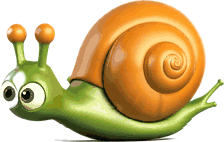
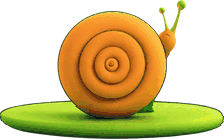
Three things a player pointed at: the ramp, the halos, the mascot
**The ramp was drawn in profile, i.e. wrong by ninety degrees.** A wedge whose
slope rises left to right is a ramp seen from the side, and the player is never
to the side — they are directly behind it, running at it. It is drawn receding
now: near edge wide and on the road, far edge narrower and raised, a darker lip
capping the far end, rails down both sides for the eye to read the recession
off. Perspective inside a billboard has to be painted; the projection only
scales the whole quad.

The first recoloured version read as a hole in the road. `blocking`'s greys are
what an upright mass is read against the SKY in; a ramp is read against the
ROAD, which is pale warm flagstone. It is `low`'s sandstone now, with the ink
ring cut 0.02 -> 0.007 and the rails halved — a billboard this flat has very
little interior left after a border.

**The white halo round every pickup was the rim light**, which replaced the
backing disc in C-A. Both were argued for correctly and both were reported the
first time they were seen on a real frame: the disc was a dark plate under every
icon, the rim is a white blob round every icon. Removed. What carries the
separation is what the object already has — its own ink contour, its saturation
(69% against the obstacles' 13%), and the ellipse shadow under it. GLYPH_FIT to
0.98, since there is no ring to leave room for.

**The mascot was a profile and should be a back.** This file used to argue the
[…]

diff --git a/src/run/RampSprites.ts b/src/run/RampSprites.ts
@@ -26,16 +26,29 @@ const CANVAS = 256
 const CHEVRON = 0xf0b024
 
 /**
- * A wedge, drawn as a billboard like everything else standing on the road.
+ * The ramp, seen from behind — which is the only vantage this game has.
  *
- * **It reads by its slope, which is the one thing on the road that is not vertical.** Obstacles are
- * upright masses and pickups are floating icons; a shape whose top edge climbs from the ground to a
- * lip is the only thing in the frame that says "this goes up", and it has to say that from far
- * enough away for the player to line up on it.
+ * **⚠ The first version drew it in PROFILE and it was wrong by ninety degrees.** A wedge whose slope
+ * rises left to right is a ramp you are looking at from the side, and the player is never to the
+ * side: they are directly behind it, running at it. What they saw was a ramp lying across their
+ * path, which is a thing you hit rather than a thing you ride. Reported by pointing at a screenshot.
  *
- * Drawn in the obstacle family's own colours rather than a new hue: a ramp is made of the same
- * timber the crates and the fences are, and this game's one colour rule is that everything is muted
- * except the snail and the things it is steered towards. A ramp is not a reward.
+ * So it is drawn receding: the **near edge is wide and on the road, the far edge is narrower and
+ * raised**, and between them is the running surface going away from the camera. The narrowing is
+ * what makes it read as length rather than as a flat plate — perspective inside a billboard has to
+ * be painted, because the projection only scales the whole quad.
+ *
+ * Three things carry it at the 160-odd pixels it is actually seen at:
+ *
+ * - the **trapezoid**, which is the only shape on this road that is wider at the bottom;
+ * - the **lip**, a darker band capping the far edge, so the surface ends at a raised edge rather
+ *   than fading out;
+ * - the **chevrons**, pointing away up the slope, and they are the only saturated thing on the
+ *   object — see `CHEVRON` for why the body may not be.
+ *
+ * The billboard is about four times as wide as it is tall, so everything here is drawn tall on a
+ * square canvas and comes out flattened. That suits a ramp seen end-on, which really is foreshortened,
+ * but it means the shapes have to be few and large: fine detail arrives as a smear.
  */
 export function createRampTexture(scene: Phaser.Scene): void {
   if (scene.textures.exists(RAMP_TEXTURE)) return
@@ -44,45 +57,103 @@ export function createRampTexture(scene: Phaser.Scene): void {
   const s = (f: number): number => CANVAS * f
   // Ink weight off the geometric mean of the canvas, the rule the obstacles' own art records: a
   // fraction of the width puts a rope round a short shape and a hairline round a tall one.
-  const ink = Math.max(2, Math.sqrt(CANVAS * CANVAS) * 0.022)
-  const colors = OBSTACLE_MATERIALS.blocking
+  // **⚠ Thin, and the first value was three times this.** At 0.02 of the canvas the ink ring plus
+  // the two rails were most of what reached the screen: the ramp came out as a dark trapezoid — a
+  // hole in a pale road rather than a thing standing on it. A billboard this flat has very little
+  // interior left after a border, so the border has to be a hairline.
+  const ink = Math.max(1.5, Math.sqrt(CANVAS * CANVAS) * 0.007)
+  // **Sandstone, not crate timber.** `blocking`'s greys are what an upright mass is read against the
+  // SKY in; a ramp is read against the ROAD, which is pale warm flagstone, and a mid grey on it is a
+  // hole. `low` is the family's own sun-bleached stone and straw — warmer and lighter, so the wedge
+  // reads as something raised off the road rather than cut into it.
+  const colors = OBSTACLE_MATERIALS.low
 
-  // The slope, rising left to right, with the lip at the top of the frame — the billboard's origin
-  // is its bottom edge, so this is drawn as it stands on the road.
-  const face = [s(0.03), s(1), s(0.97), s(0.1), s(0.97), s(1)]
-
-  g.fillStyle(INK, 1)
-  g.fillTriangle(face[0] - ink, face[1] + ink, face[2] + ink, face[3] - ink, face[4] + ink, face[5] + ink)
-  g.fillStyle(colors.mid, 1)
-  g.fillTriangle(face[0], face[1], face[2], face[3], face[4], face[5])
-  // The running surface, lighter than the body: a wedge drawn in one flat colour is a triangle, and
-  // a triangle is not a thing that goes up.
-  g.fillStyle(colors.light, 1)
-  g.fillTriangle(s(0.05), s(0.99), s(0.95), s(0.12), s(0.95), s(0.34))
-  // The end wall, so the far side reads as a lip rather than as a point.
-  g.fillStyle(colors.dark, 1)
-  g.fillRect(s(0.9), s(0.12), s(0.07), s(0.87))
-
-  // **⚠ Chevrons, and they are the only saturated thing on the object.** Two rounds of looking at
-  // this in the running game: at 164 x 21 pixels a timber wedge on a pale road is invisible, and
-  // the game's own colour rule — everything muted except the snail and what it is steered towards —
-  // forbids painting the body bright. A *marking* is the way out: the road already carries pale
-  // paint, and a pair of gold chevrons climbing the slope is a road marking that says which way it
-  // goes. It is also the one shape in the frame with a direction, which is exactly what a ramp is.
-  for (let i = 0; i < 2; i++) {
-    const at = 0.3 + i * 0.3
-    // Along the slope, so the chevrons lie on the surface rather than standing on it.
-    const y = 0.99 - at * 0.84
-    const w = 0.1
-
-    g.fillStyle(CHEVRON, 1)
+  const poly = (points: number[][], color: number): void => {
+    g.fillStyle(color, 1)
     g.beginPath()
-    g.moveTo(s(at + w), s(y - 0.1))
-    g.lineTo(s(at + w * 2), s(y - 0.03))
-    g.lineTo(s(at + w), s(y + 0.04))
-    g.lineTo(s(at + w * 0.55), s(y - 0.03))
+    g.moveTo(s(points[0][0]), s(points[0][1]))
+    for (let i = 1; i < points.length; i++) g.lineTo(s(points[i][0]), s(points[i][1]))
     g.closePath()
     g.fillPath()
+  }
+
+  // Near edge at the bottom, full width; far edge at the top, pulled in — the recession.
+  const near = 0.5
+  const far = 0.3
+  const nearY = 1
+  const farY = 0.24
+  const lipY = 0.05
+  const o = ink / CANVAS
+
+  // The silhouette, in ink, one step out from everything drawn over it.
+  poly(
+    [
+      [0.5 - near - o, nearY + o],
+      [0.5 + near + o, nearY + o],
+      [0.5 + far + o, lipY - o],
+      [0.5 - far - o, lipY - o],
+    ],
+    INK,
+  )
+  // The running surface. Lighter than the body, because it is the face the light falls on and the
+  // face the player is aiming at.
+  poly(
+    [
+      [0.5 - near, nearY],
+      [0.5 + near, nearY],
+      [0.5 + far, farY],
+      [0.5 - far, farY],
+    ],
+    colors.light,
+  )
+  // The lip: the raised far edge, capping the surface. Darker, so the ramp ends on an edge rather
+  // than dissolving into the road behind it.
+  poly(
+    [
+      [0.5 - far, farY],
+      [0.5 + far, farY],
+      [0.5 + far, lipY],
+      [0.5 - far, lipY],
+    ],
+    colors.mid,
+  )
+  // Rails down both sides, so the surface has thickness and the eye has two converging lines to
+  // read the recession off.
+  for (const side of [-1, 1]) {
+    poly(
+      [
+        [0.5 + side * near, nearY],
+        [0.5 + side * (near - 0.03), nearY],
+        [0.5 + side * (far - 0.02), farY],
+        [0.5 + side * far, farY],
+      ],
+      colors.dark,
+    )
+  }
+
+  // **⚠ Chevrons, and they are the only saturated thing on the object.** Two rounds of looking at
+  // this in the running game: a timber ramp on a pale road is invisible, and the game's own colour
+  // rule — everything muted except the snail and what it is steered towards — forbids painting the
+  // body bright. A *marking* is the way out: the road already carries pale paint, and arrows
+  // pointing away up the surface are a road marking that says which way it goes.
+  for (let i = 0; i < 3; i++) {
+    const t = 0.12 + i * 0.27
+    const y = nearY - t * (nearY - farY)
+    // Narrowing with the surface, so they lie on it rather than floating over it.
+    const w = 0.3 - t * 0.14
+    const h = 0.15
+
+    poly(
+      [
+        [0.5, y - h],
+        [0.5 + w, y],
+        [0.5 + w * 0.45, y],
+        [0.5, y - h * 0.5],
+        [0.5 - w * 0.45, y],
+        [0.5 - w, y],
+      ],
+      CHEVRON,
+    )
   }
 
   g.generateTexture(RAMP_TEXTURE, CANVAS, CANVAS)

diff --git a/scripts/build-sprites.py b/scripts/build-sprites.py
@@ -535,33 +535,30 @@ PICKUP_KEYS = {
 #   THE SHADOW     already exists, already projected, already sized by height -- see `shadows.ts`.
 #                  It is what separates the object from the ground it floats over.
 #   THE SILHOUETTE closed and compact, which is what the fruit set was chosen on.
-RIM_WIDTH = 0.045
-# Warm white rather than pure: a neutral rim on a warm biome reads as a cut-out edge, and this has
-# to read as light catching a contour.
-RIM_COLOUR = (255, 250, 235, 230)
-# How much of the canvas the glyph fills. Higher than it was under the disc, which had to leave a
-# ring of itself showing all the way round.
-GLYPH_FIT = 0.94
-
-
-def _rim(glyph: Image.Image, width_px: int) -> Image.Image:
-    """A bright outline around whatever is opaque in `glyph`, as its own RGBA layer.
-
-    Dilating the alpha and subtracting the original is the whole of it -- a morphological outline
-    rather than a stroke, so it follows a bunch of grapes as exactly as it follows a disc. Done on
-    the alpha alone, so a dark fruit and a light one get the same ring.
-    """
-    alpha = glyph.getchannel("A")
-    grown = alpha.filter(ImageFilter.MaxFilter(max(3, width_px * 2 + 1)))
-    ring = ImageChops.subtract(grown, alpha)
-    out = Image.new("RGBA", glyph.size, RIM_COLOUR[:3] + (0,))
-    out.putalpha(ring.point(lambda v: min(255, round(v * RIM_COLOUR[3] / 255))))
-
-    return out
+# **⚠ THE RIM IS GONE, and it was reported the first time it was seen on a real frame.** It replaced
+# the dark backing disc on the argument that a pickup has to separate from grey road, green grass and
+# pale sand alike, and that a bright contour does that without the disc's "dark hole in the road"
+# problem. On a bright world it does something worse: dilating the alpha and painting the ring
+# near-white puts a WHITE HALO round every coin, and at the size a pickup is actually read that halo
+# is most of what is there -- the player sees icons on white blobs, which is exactly how it was
+# reported.
+#
+# What carries the separation instead is what the object already has: its own ink contour from the
+# render, its saturation (the pickups average 69% against the obstacles' 13%, and only the mascot and
+# the rewards are allowed to be saturated at all), and the hard-edged ellipse shadow under it, which
+# is the one mark on the ground that means "something is above this spot".
+#
+# The lesson is the standing one, paid for again: a contrast device is judged on a frame, not on the
+# argument for it. Both the disc and the rim were argued for correctly and both were reported by a
+# player the first time they were looked at.
+RIM_WIDTH = 0.0
+# How much of the canvas the glyph fills. With nothing composited round it there is no ring to leave
+# room for, so this is the whole canvas bar an antialiasing margin.
+GLYPH_FIT = 0.98
 
 
 def build_pickups(report: list) -> None:
-    """Every pickup and every fruit, on the rim-light contract rather than a backing disc."""
+    """Every pickup and every fruit, on their own contour -- no disc, no rim. See `RIM_WIDTH`."""
     out_dir = ASSETS / "pickup"
     out_dir.mkdir(parents=True, exist_ok=True)
     size = LONG_SIDE["pickup"]
@@ -584,12 +581,8 @@ def build_pickups(report: list) -> None:
                 Image.LANCZOS,
             )
 
-        # Width from the glyph's own height, which is what makes it a proportion of the drawn
-        # object rather than of the file.
-        rim = _rim(glyph, max(1, round(glyph.height * RIM_WIDTH)))
         at = ((size - glyph.width) // 2, (size - glyph.height) // 2)
 
-        canvas.alpha_composite(rim, at)
         canvas.alpha_composite(glyph, at)
 
         dst = out_dir / f"{key}.png"
@@ -662,12 +655,20 @@ def build_snail(report: list) -> None:
     out_dir.mkdir(parents=True, exist_ok=True)
 
     hero = Image.open(src).convert("RGBA")
-    # **Mirrored to face left, matching the game's own procedural mascot.** `snailArt.ts` puts the
-    # eye stalks at x 0.19 and 0.30 and runs the foot rightward from x 0.04, i.e. head left. The
-    # direction is otherwise arbitrary — the snail runs away from the camera, so a profile faces
-    # neither toward nor away — but it is not arbitrary that the art and the fallback agree, since
-    # a missing PNG drops the game back to the drawn version mid-session.
-    hero = hero.transpose(Image.FLIP_LEFT_RIGHT)
+    # **⚠ NOT MIRRORED ANY MORE, AND THE PICK IS A REAR VIEW RATHER THAN A PROFILE.** The shipped
+    # mascot was `snail_hero_v14`, a clean full profile, flipped to face left so that it agreed with
+    # the procedural fallback's own head-left drawing. Both halves of that were wrong about the
+    # game: the camera is BEHIND the snail, so what the player must see is its back, and a profile
+    # is a creature travelling across the screen while the road travels into it. Reported by a
+    # player pointing at a frame -- "the snail is side-on to us and it should be back-on".
+    #
+    # `v2` is the one render of the sixteen taken at that vantage: the shell faces the camera, the
+    # head and both stalks go away and to the right, and the foot spreads wide underneath. It is
+    # also 1.62:1, within four points of the 1.56:1 the collision box wants, so nothing about
+    # `PLAYER_WIDTH` moves -- see its docstring for what happens when the drawn aspect and the box
+    # disagree.
+    #
+    # There is no mirror because there is no facing: a back has no left or right to agree with.
 
     base, meta = process(hero, LONG_SIDE["snail"], desaturate=0.0)
 

diff --git a/CLAUDE.md b/CLAUDE.md
@@ -1030,6 +1030,28 @@ on every tick, so the spin would have reset to nothing on the frame after it sta
 whole state first now, and clears the three on landing rather than leaving a grounded snail holding
 a launch velocity nothing reads.
 
+### ⚠ It was drawn in profile, which is wrong by ninety degrees
+
+A wedge whose slope rises left to right is a ramp seen **from the side**, and the player is never to
+the side: they are directly behind it, running at it. What that put on screen was a ramp lying across
+the road, which is a thing you hit rather than a thing you ride. Reported by pointing at a frame.
+
+It is drawn receding now — **near edge wide and on the road, far edge narrower and raised** — with a
+darker lip capping the far end and rails down both sides giving the eye two converging lines to read
+the recession off. The perspective inside the billboard has to be *painted*, because the projection
+only scales the whole quad.
+
+The chevrons point away up the surface and narrow with it, so they lie on the ramp rather than
+floating over it. They are the only saturated thing on the object: the body stays in the obstacle
+family's muted stone because a ramp is not a reward, and the *marking* borrows the coin's own gold
+because the road already carries paint and the player already reads that colour as "go for this".
+
+**And the first recoloured version read as a hole in the road.** `blocking`'s greys are what an
+upright mass is read against the *sky* in; a ramp is read against the *road*, which is pale warm
+flagstone, and a mid grey on it is a hole. It is `low`'s sun-bleached sandstone now, with the ink
+ring cut from 0.02 of the canvas to 0.007 and the rails halved — on a billboard this flat there is
+very little interior left after a border, so the border has to be a hairline.
+
 ### ⚠ The wedge was invisible, and the rule that made it invisible was the wrong rule
 
 `RAMP_HEIGHT` was 170 on the reasoning that a ramp drawn shorter than the shortest thing that *can*
@@ -1451,10 +1473,23 @@ and each is written up on the code that fixes it:
 horizontal shear falling to zero by `WAVE_REACH`. Six independent renders would be six different
 snails, and this is the one object whose identity is the entire product.
 
-**The model kept drifting to profile, and it was right.** The game's own procedural mascot is a
-profile — `drawFoot` runs the foot horizontally and puts the stalks at x 0.19/0.30, i.e. head left —
-and the 1.56:1 aspect *is* a profile proportion. The pick is mirrored to face left so the art and
-the fallback agree; the direction is otherwise arbitrary, since the snail runs away from the camera.
+**⚠ The model kept drifting to profile, and this file used to say it was right. It was not.** The
+argument was that the procedural fallback is a profile (`drawFoot` runs the foot horizontally, stalks
+at x 0.19/0.30, head left), that the 1.56:1 aspect is a profile proportion, and that the direction is
+arbitrary "since the snail runs away from the camera". The last clause is the answer contradicting
+its own premise: if the snail runs away from the camera then the player is looking at its **back**,
+and a profile is a creature travelling across the screen while the road travels into it.
+
+Reported by a player pointing at a frame. The pick is **`snail_hero_v2`**, the one render of sixteen
+taken at that vantage — shell to the camera, head and both stalks going away, foot spread wide
+underneath — and it is **not mirrored**, because a back has no facing to agree with. Its 1.62:1 is
+within four points of the collision box's 1.56:1, so nothing about `PLAYER_WIDTH` moved. Checked at
+120, 46 and 23 pixels over magenta and mid grey: it still reads as a creature at the narrowest
+viewport the game supports.
+
+**What this leaves open, stated rather than hidden**: the procedural fallback in `snailArt.ts` is
+still a profile, so art and fallback no longer agree. That only shows if a PNG fails to load — and
+the fix is a rear-view fallback, not a mirrored render.
 
 ### ⚠ The obstacles are made things now, and it took three rounds to find out why
 
@@ -1498,16 +1533,30 @@ The related half: `text, letters, numbers` had been cut from `COMMON_NEG` on the
 sign. Both halves were true and the conclusion was still wrong — a **coin** is the one subject whose
 defining feature is that something is struck into its face. It lives in `PICKUP_NEG` now.
 
-### The shared backing disc is composited, not rendered
+### ⚠ A pickup now carries nothing behind it, and two contrast devices were removed to get there
 
-All three pickups sit on one dark plate, drawn by `build_pickups`. Its whole job is to be the
-*same* disc on all three, so a pickup separates from grey road, green grass and pale sand alike —
-which three independently rendered discs cannot be. The round that asked for it in the prompt
-returned none at all, which is the right outcome to accept rather than to prompt harder at.
+Both were argued for correctly and both were reported by a player the first time they were seen on a
+real frame. The argument each time was the same and it is a good one: a pickup has to separate from
+grey road, green grass and pale sand alike, and the eight biomes make every one of those the
+background at some point.
 
-**Its first values were wrong and were fixed by looking at the running game**: at alpha 205 under a
-0.72 glyph fit, a coin passing the camera read as a dark hole in the road with something small
-inside it. A backing plate's job is to be the thing you do not look at.
+- **A shared dark disc** was the first answer. Its first values were fixed by looking at the running
+  game — at alpha 205 under a 0.72 glyph fit a coin read as a dark hole in the road with something
+  small inside it — and even corrected it was a plate under every icon.
+- **A bright rim** replaced it: dilate the alpha, subtract the original, paint the ring near-white.
+  A morphological outline rather than a stroke, so it follows a bunch of grapes as exactly as it
+  follows a disc. On a bright world it does something worse than the disc did — it puts a **white
+  halo** round every pickup, and at the size one is actually read the halo is most of what is there.
+  Reported as "there is a white background around the icons".
+
+What carries the separation now is what the object already has: **its own ink contour** from the
+render, **its saturation** (the pickups average 69% against the obstacles' 13%, and only the mascot
+and the rewards are allowed to be saturated at all), and **the hard-edged ellipse shadow** under it,
+which is the one mark on the ground that means "something is above this spot". `GLYPH_FIT` went to
+0.98, since there is no longer a ring to leave room for.
+
+**The standing rule, paid for twice in one round: a contrast device is judged on a frame, not on the
+argument for it.**
 
 ### ⚠ Two boundary bugs, both caught by checks that already existed
 
